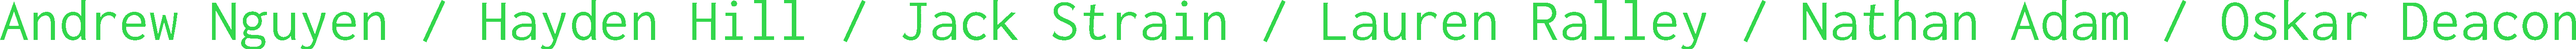
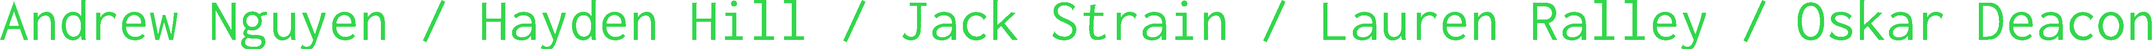
Removing references

diff --git a/index.html b/index.html
@@ -13,9 +13,9 @@
 
     <div class="content">
         <h3>Group Processes:</h3>
-        <p>I See Dev People worked very well together as a group in assignment 2. The team dynamic worked well, and we were able to produce a high-quality piece of work. Each team member took parts and worked on them, towards the end it was all amalgamated into the final submission and worked out to be a high-quality piece. Each team member contributed well, and very little follow up was required. From my own personal viewpoint, I do not believe that we should change any processes for assignment 3.</p>
+        <p>Our group 'I See Dev People' worked incredibly well together in assignment 2. The team dynamic was ideal, and as a result, we were able to produce a high-quality piece of work. Each team member were assigned tasks and worked independently on them which were in the end amalgamated into the final submission of which we achieved a high mark. Each team member contributed well, and very little follow up was required. From our viewpoint, there are no processes that require change for assignment 3.</p>
         <h3>Career Plans:</h3>
-        <p>Each of our group members have unique career plans, some relating directly to the IT field and others not so much, but still entailing some kind of IT knowledge. Jack’s Ideal job is to be a DevOps Engineer, Hayden’s is to be a Cyber security Specialist while Nathan’s is to be a support engineer; these are all directly related to the IT industry and will require a high level of IT literacy. What differentiates these roles is the facets that they entail, they all relate to IT, but have their own speciality. On the other hand, Lauren’s career plan is that of a Senior Project Manager, Andrew a Supply Chain Manager and finally Oskar a Financial Planner; these are not directly related to the IT field; however, all have aspects that would be IT minded which would be the most common element. Today, most office jobs relate back to IT in some way or another. All group members’ ideal jobs have very practical aspects, and in their own respects are all very important to the daily running of most organisations and their client’s needs.</p>
+        <p>Each of our group members have unique career plans, some relating directly to the IT field and others not so much, but still entailing some kind of IT knowledge. Jack’s Ideal job is to be a DevOps Engineer, while Hayden’s is to be a Cyber security Specialist; these are directly related to the IT industry and will require a high level of IT literacy. What differentiates these roles is the facets that they entail, they all relate to IT, but have their own speciality. On the other hand, Lauren’s career plan is that of a Senior Project Manager, Andrew a Supply Chain Manager and finally Oskar a Financial Planner; these are not directly related to the IT field; however, all have aspects that would be IT minded which would be the most common element. Today, most office jobs relate back to IT in some way or another. All group members’ ideal jobs have very practical aspects, and in their own respects are all very important to the daily running of most organisations and their client’s needs.</p>
         <h3>Personal Information:</h3>
         <p><b>About Andrew:</b><br><a href=https://andrewvunguyen.github.io/myprofile>https://andrewvunguyen.github.io/myprofile/</a><br>My name is Andrew Nguyen, and my student number is s3727902. I am a member of the group ‘I see Dev people’. My background is Vietnamese, and I am fluent in both English and Vietnamese. My hobbies include reading and gaming. My recent interest in IT was derived from learning the critical role IT has in the modern workplace. The relevant IT experience I possess includes the Microsoft Office Suite, among others.</p>
         <p><img src="images/andrew-results.png" hspace=5></p>
